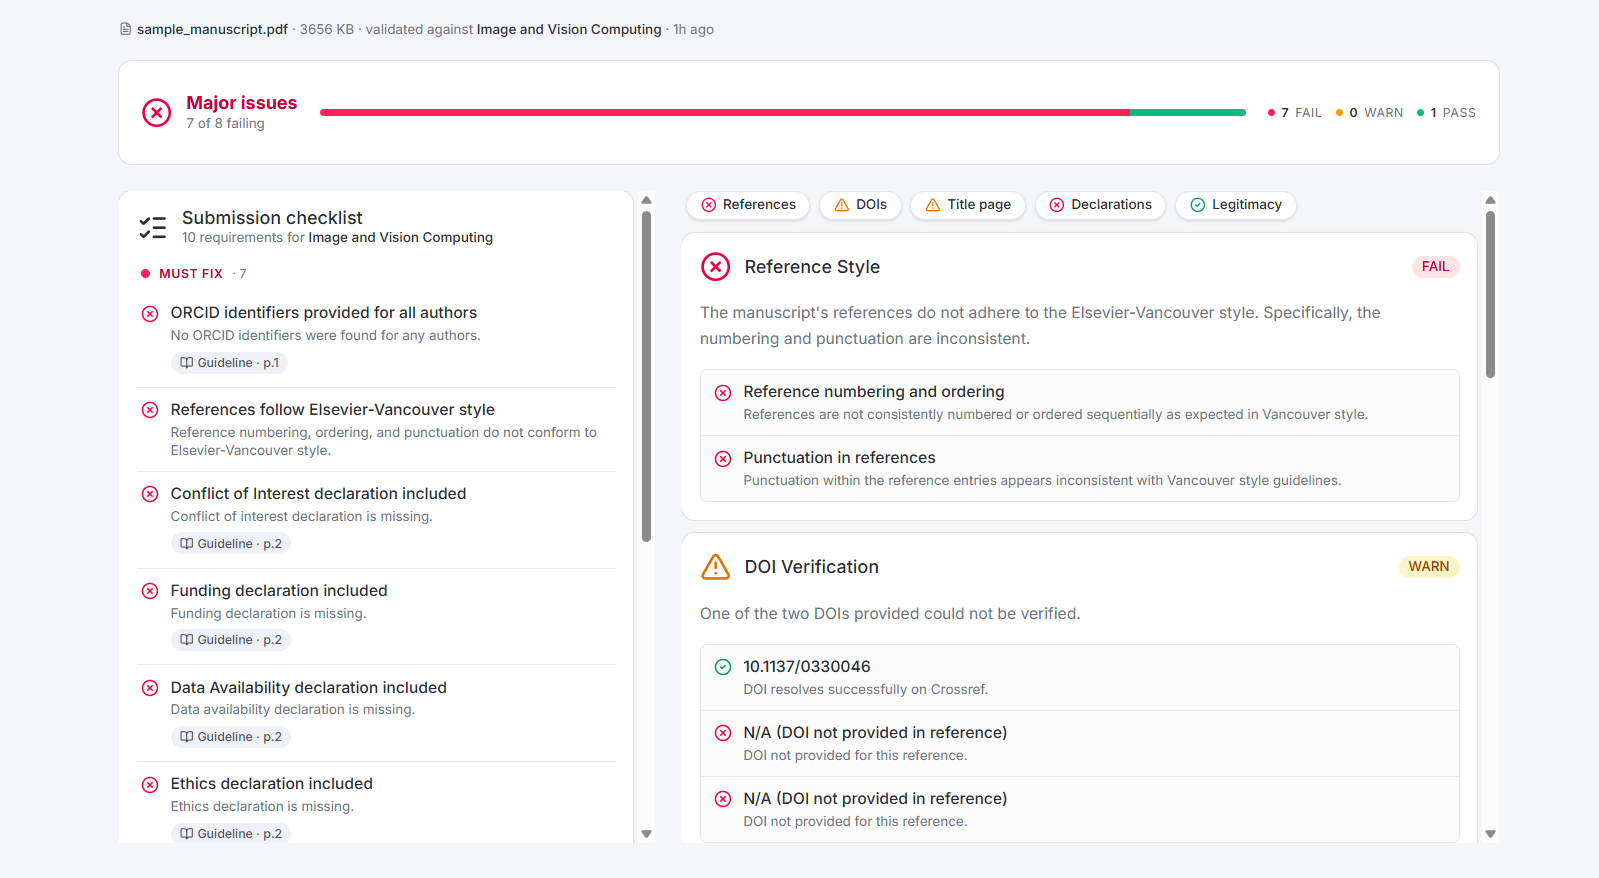
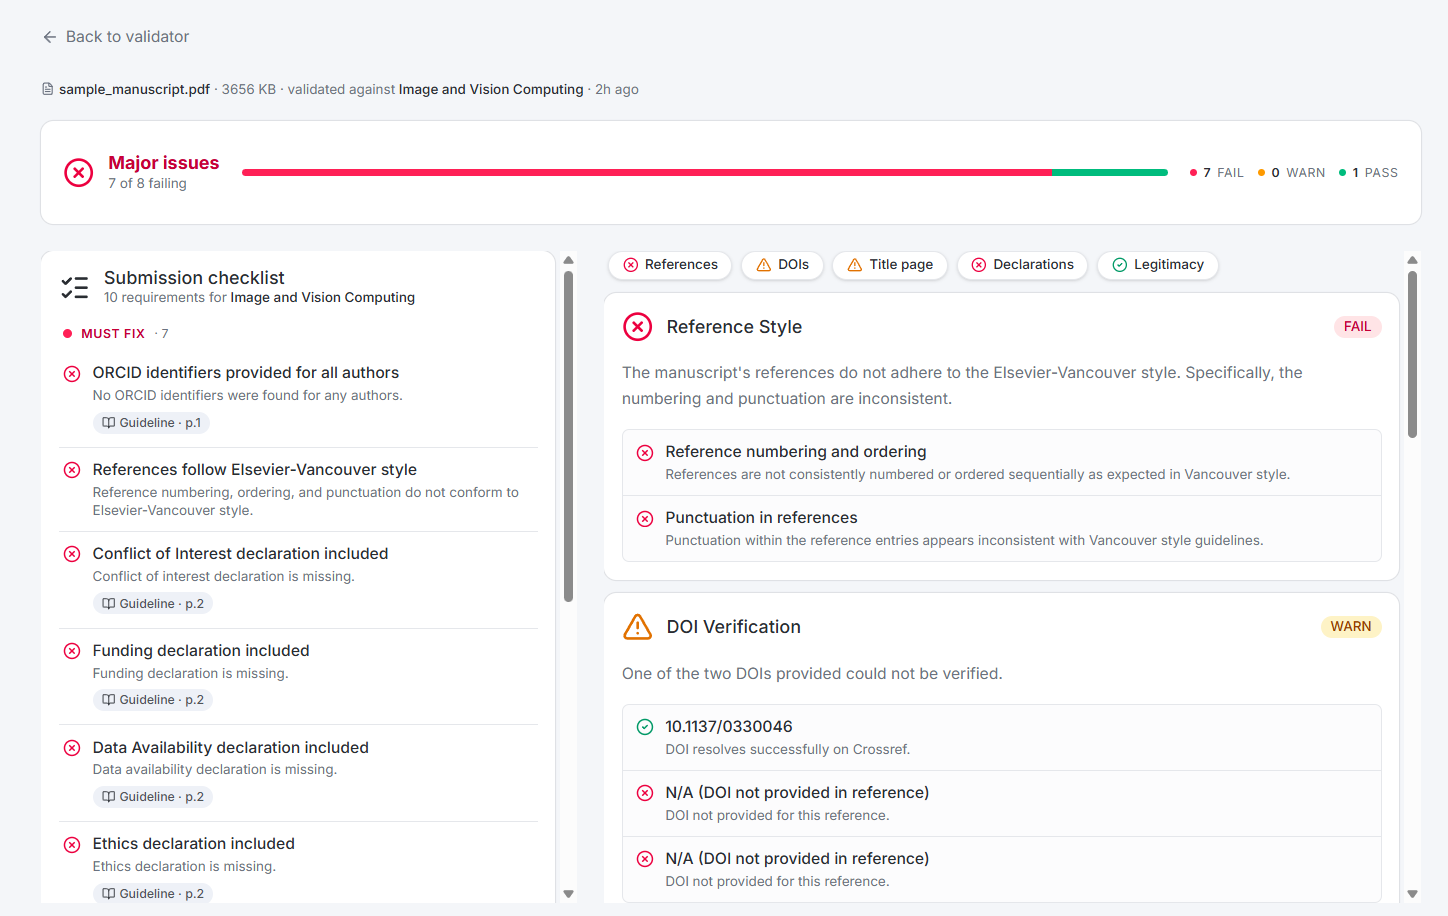
docs: document supported journals + how to add more

diff --git a/README.md b/README.md
@@ -21,6 +21,17 @@ You don't need to source any data yourself. The repo ships with everything requi
 - `ingest/data/sample_manuscript.pdf` (a Vision Transformer paper to validate against)
 - `n8n/workflows/validate.json` (the agent workflow, ready to import)
 
+### Supported journals
+
+The dropdown lists all 58 entries from `journal_metadata.csv`, but only two journals ship with their author guidelines ingested into Qdrant. These are the two that work end-to-end out of the box:
+
+| journal_id | Name | Publisher | Reference style |
+|---|---|---|---|
+| `tpami` | IEEE Transactions on Pattern Analysis and Machine Intelligence | IEEE | IEEE |
+| `ivc` | Image and Vision Computing | Elsevier | Elsevier-Vancouver |
+
+Picking any other journal will still run, but the agent will retrieve zero guideline chunks for it. See [Adding another journal](#adding-another-journal) below to ingest more.
+
 ### Prerequisites
 
 1. **Docker Desktop** for Qdrant and n8n
@@ -77,11 +88,21 @@ npm install
 npm run dev
 ```
 
-Open <http://localhost:3000>, pick **TPAMI** in the dropdown, drag `ingest/data/sample_manuscript.pdf` onto the form, and click **Validate**. About 25 seconds later the report appears.
+Open <http://localhost:3000>, pick a target journal in the dropdown, drag a manuscript PDF onto the form, and click **Validate**. About 25 seconds later the report appears. The bundled `ingest/data/sample_manuscript.pdf` (a Vision Transformer paper) is a good first test.
 
 ### Free-tier rate limits
 
 Each validation calls Gemini roughly 7 to 10 times (one initial round, one per tool call, one final synthesis). The free tier caps at 20 chat-model requests per minute, so back-to-back runs from the same key get throttled. For demo use, space validations about 90 seconds apart.
+
+### Adding another journal
+
+1. If the journal is not already in `ingest/out/journal_metadata.csv`, add a row. The minimum useful columns are `journal_id, name, publisher, required_reference_style, issn`.
+2. Save the author-guide PDF at `ingest/data/<journal_id>_author_guide.pdf`.
+3. Embed it into Qdrant:
+   ```powershell
+   uv run --directory ingest python ingest_guideline.py --journal-id <journal_id> --pdf data/<journal_id>_author_guide.pdf
+   ```
+4. Refresh the frontend. The new journal is now selectable and fully supported by the agent.
 
 ## Architecture
 
